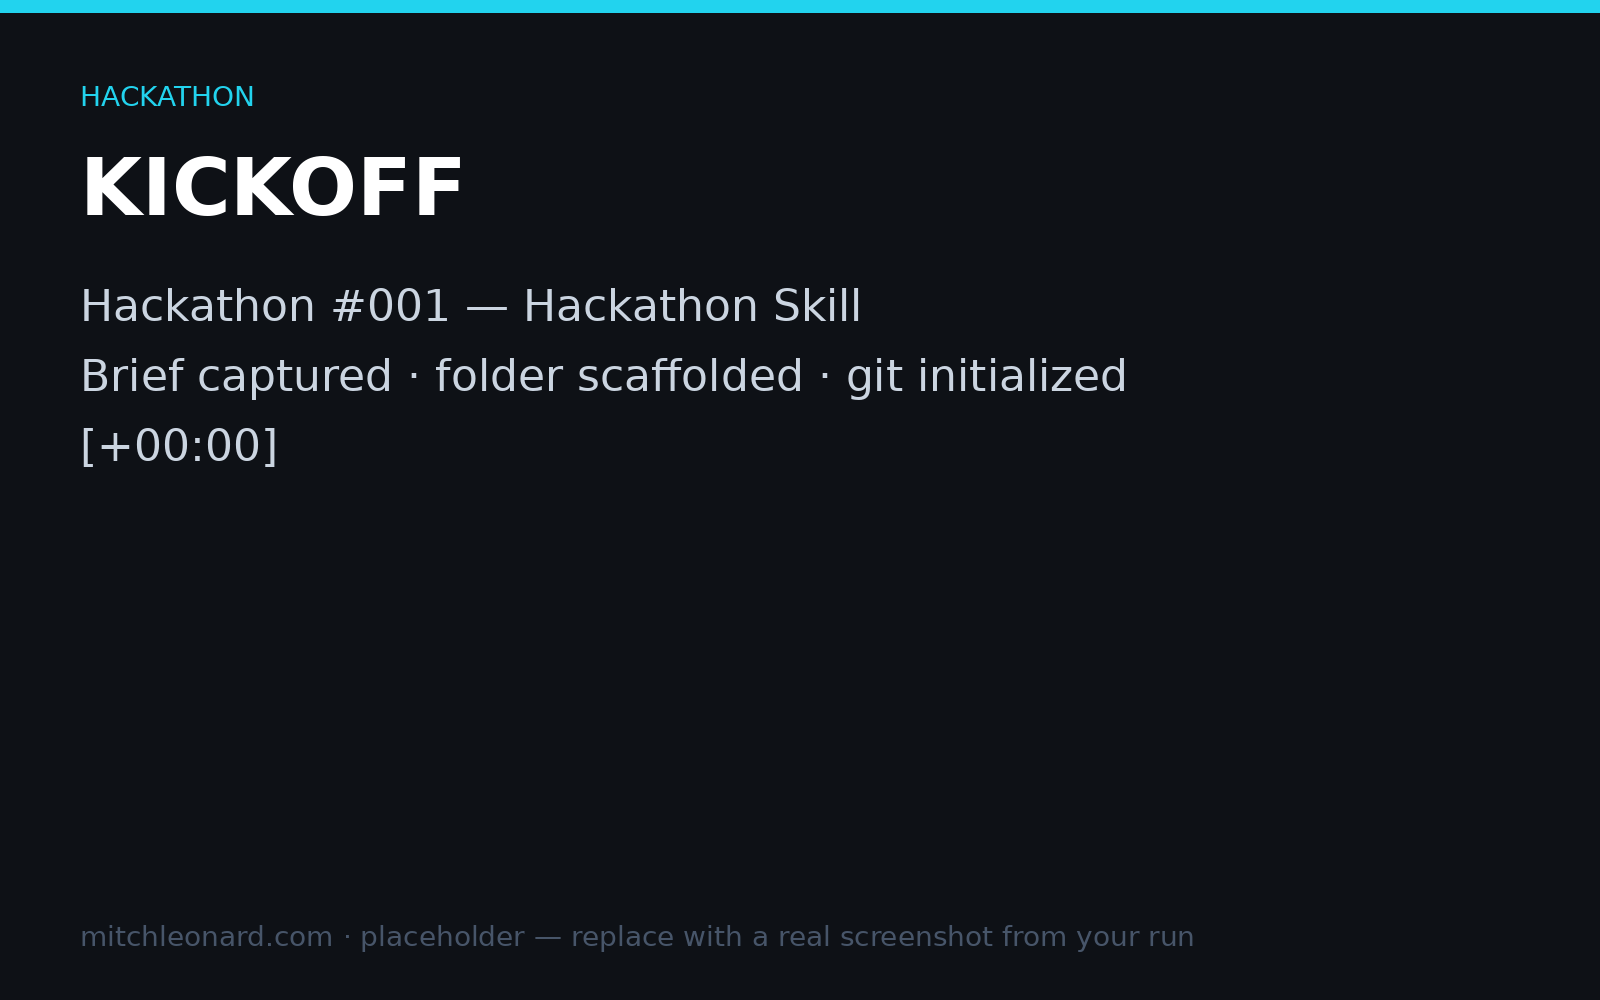
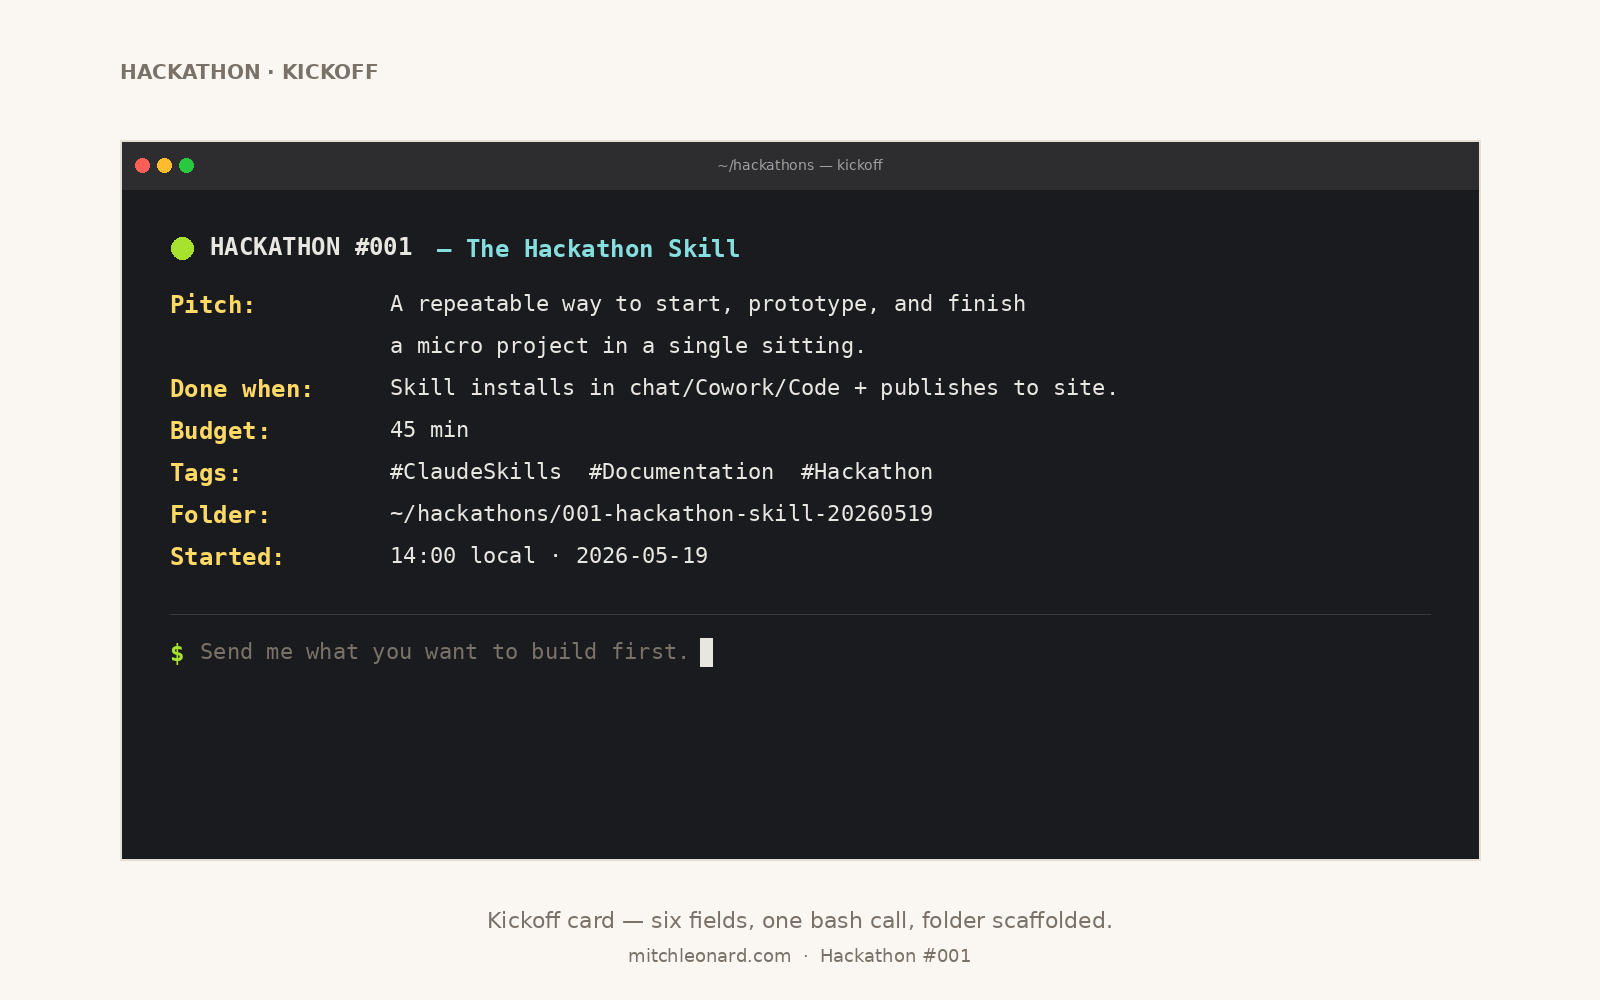
Hackathon #001 — story-driven visuals + og:image

diff --git a/data/caseStudies.js b/data/caseStudies.js
@@ -347,6 +347,7 @@ export const caseStudies = [
     client: null,
     tags: ['Claude Skills', 'Documentation', 'Hackathon'],
     url: '',
+    ogImage: '/hackathon-skill/og.png',
     results: [
       { value: '38 min', label: 'Start to ship' },
       { value: '7', label: 'Commits' },
@@ -366,10 +367,11 @@ export const caseStudies = [
     ],
     impact: null,
     visuals: [
-      { type: 'image', src: '/hackathon-skill/00-kickoff.png', caption: 'Kickoff card', featured: true },
-      { type: 'image', src: '/hackathon-skill/01-skill-md.png', description: 'SKILL.md is the source of truth. Every Claude surface reads it and executes the same flow.', annotated: true },
-      { type: 'image', src: '/hackathon-skill/02-templates.png', description: 'Templates and bash helpers — the scaffolding that makes a kickoff a one-line operation.', annotated: true },
-      { type: 'image', src: '/hackathon-skill/03-dogfood.png', description: 'Hackathon #001 was building this skill. The first portfolio entry is the system that produces portfolio entries.', annotated: true },
+      { type: 'image', src: '/hackathon-skill/01-prompt.png', caption: 'It started with one prompt', featured: true },
+      { type: 'image', src: '/hackathon-skill/02-research.png', description: 'Step one was reverse-engineering the schema. The skill had to slot into the existing portfolio without changing anything around it.', annotated: true },
+      { type: 'image', src: '/hackathon-skill/hero.png', description: 'Sketched four phases — Kickoff, Build, Ship, Publish. Each one a single prompt apart. Each one captured automatically.', annotated: true },
+      { type: 'image', src: '/hackathon-skill/03-dogfood.png', description: 'Dogfooded by documenting this very build as Hackathon #001. Every prompt, pivot, and decision stamped to the second — the log wrote itself.', annotated: true },
+      { type: 'image', src: '/hackathon-skill/05-shipped.png', description: 'One push to main. Vercel deployed in under a minute. Thirty-eight minutes from first prompt to live URL.', annotated: true },
     ],
     next: 'daily',
   },

diff --git a/app/work/[slug]/page.tsx b/app/work/[slug]/page.tsx
@@ -10,11 +10,33 @@ export async function generateStaticParams() {
 }
 
 export async function generateMetadata({ params }: { params: { slug: string } }) {
-  const cs = getCaseStudy(params.slug)
+  const cs = getCaseStudy(params.slug) as any
   if (!cs) return {}
+  const ogImage = cs.ogImage || '/og-default.png'
+  const url = `https://www.mitchleonard.com/work/${cs.slug}`
   return {
     title: `${cs.title} — Mitch Leonard`,
     description: cs.subtitle,
+    openGraph: {
+      title: `${cs.title} — Mitch Leonard`,
+      description: cs.subtitle,
+      url,
+      type: 'article',
+      images: [
+        {
+          url: ogImage,
+          width: 1200,
+          height: 630,
+          alt: cs.title,
+        },
+      ],
+    },
+    twitter: {
+      card: 'summary_large_image',
+      title: cs.title,
+      description: cs.subtitle,
+      images: [ogImage],
+    },
   }
 }
 
